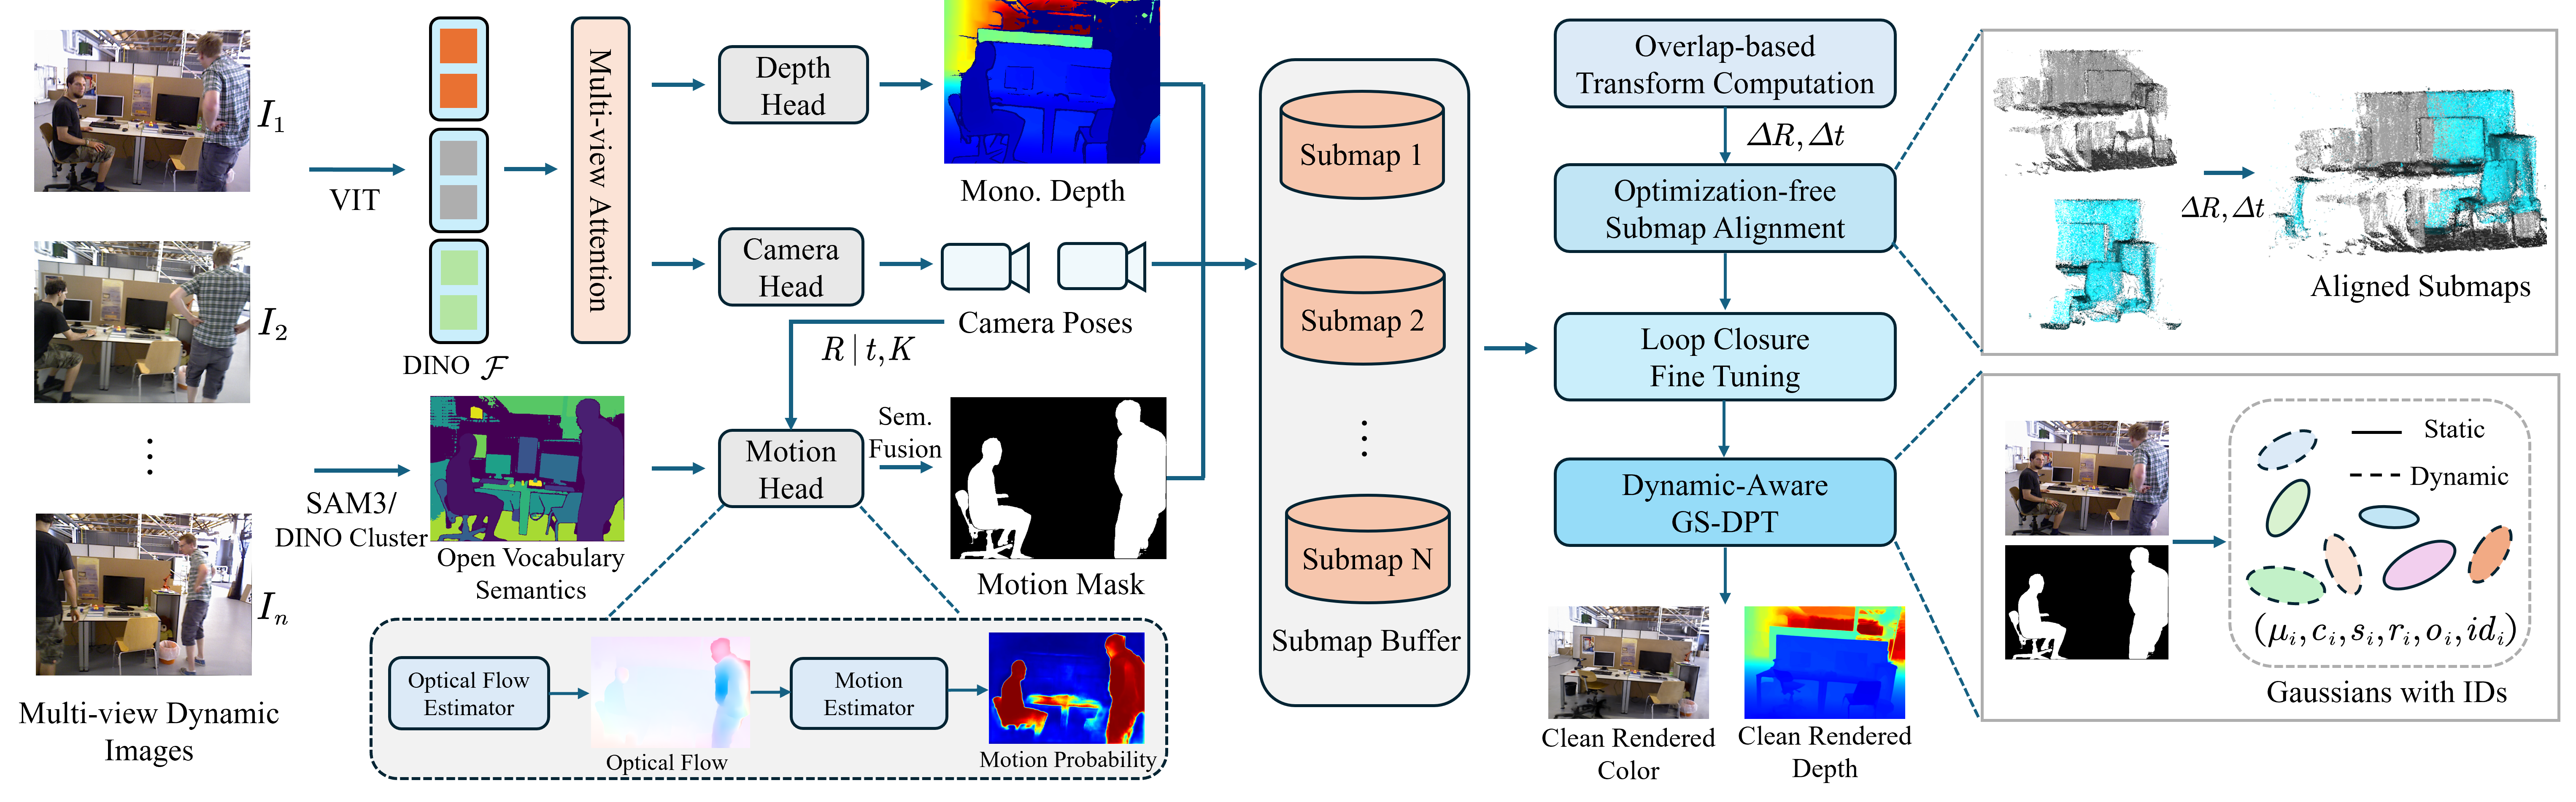
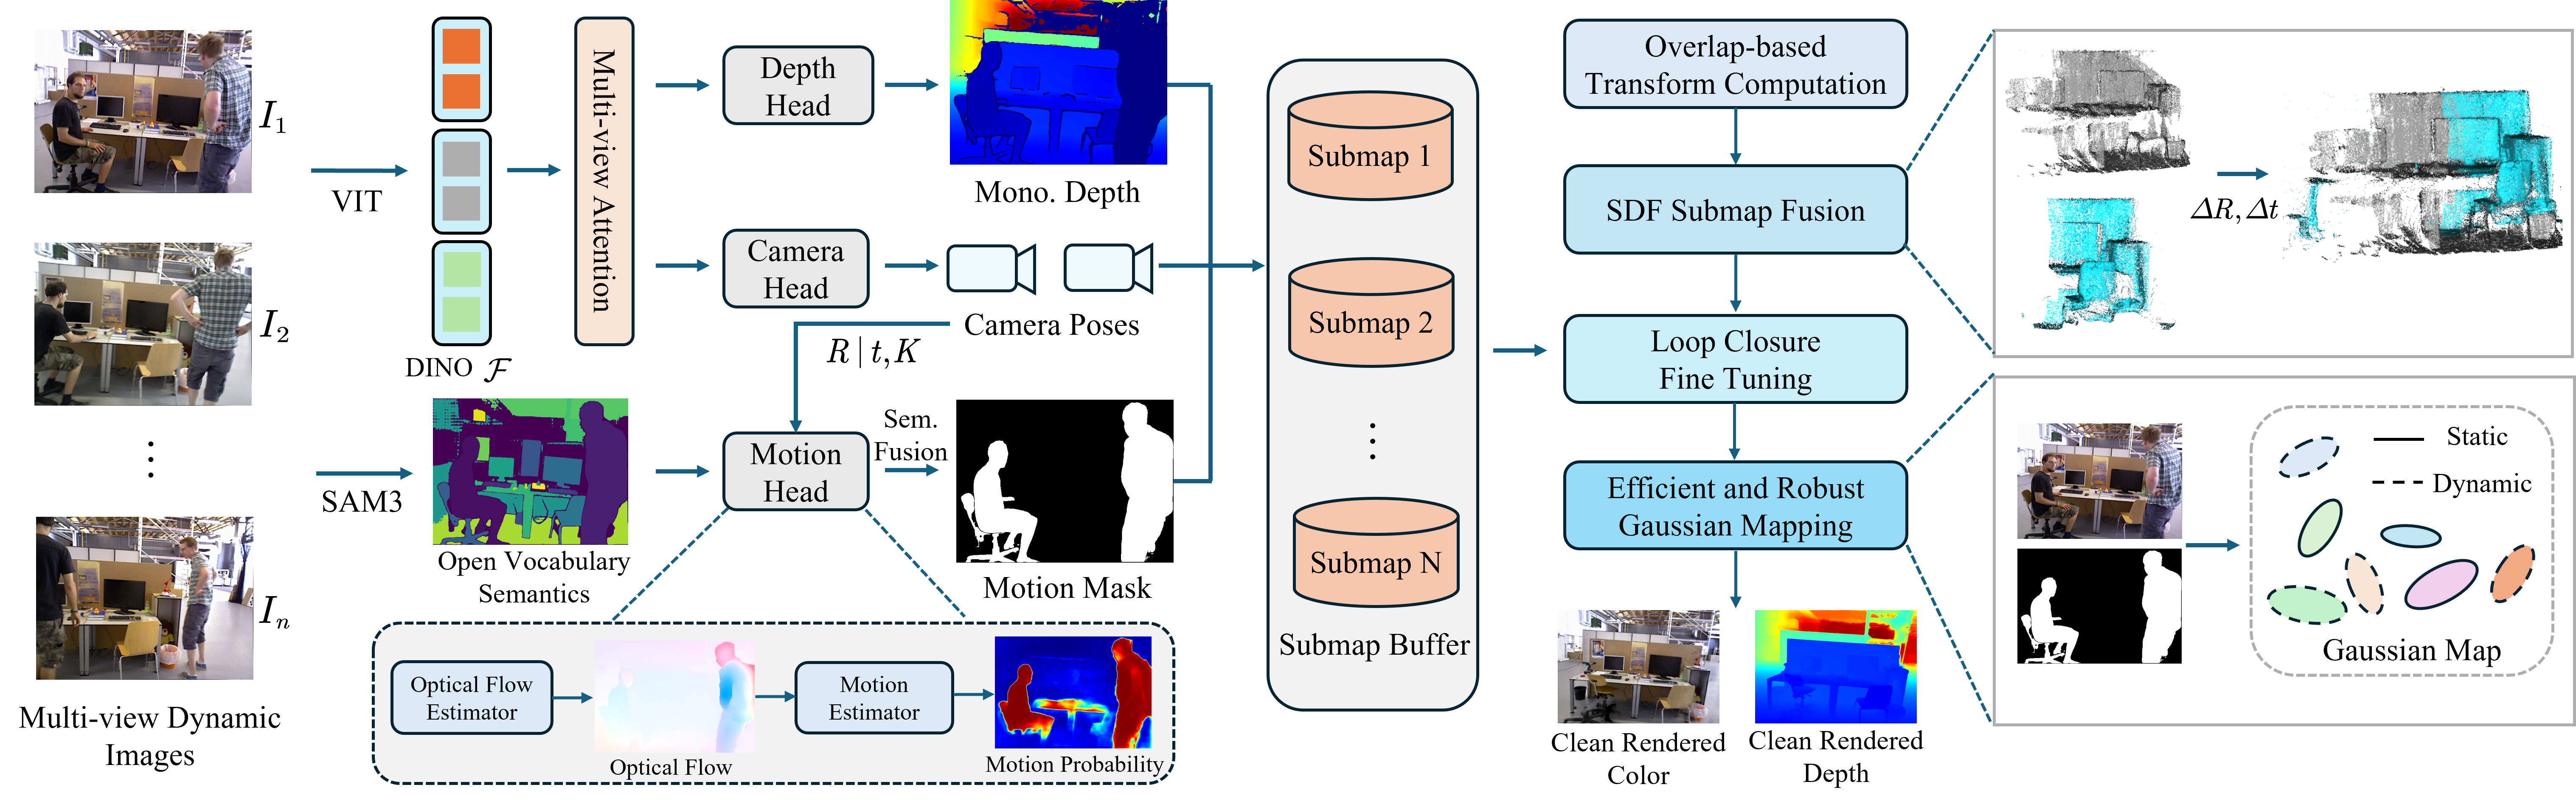
Update project

diff --git a/index.html b/index.html
@@ -4,8 +4,10 @@
 <head>
   <meta charset="utf-8">
   <meta name="description"
-        content="DyEG-SLAM: Feed-forward Gaussian SLAM in Dynamic Scenes">
-  <meta name="keywords" content="DyEG-SLAM: Feed-forward Gaussian SLAM in Dynamic Scenes">
+        content="GCD-SLAM: Globally Consistent Calibration-Free
+Dynamic Visual SLAM with 3D Foundation Model">
+  <meta name="keywords" content="GCD-SLAM: Globally Consistent Calibration-Free
+Dynamic Visual SLAM with 3D Foundation Model">
   <meta name="viewport" content="width=device-width, initial-scale=1">
   <title>DyEG-SLAM</title>
 
@@ -132,9 +134,9 @@
       <div class="columns is-centered">
         <div class="column has-text-centered">
 
-          <h1 class="title is-1 publication-title">DyEG-SLAM</h1>
+          <h1 class="title is-1 publication-title">GCD-SLAM</h1>
           <h2 class="title is-2 publication-title" style="margin-top: 0; margin-bottom: 0">
-            End-to-End Gaussian SLAM in Dynamic Scenes
+            Globally Consistent Calibration-Free Dynamic Visual SLAM with 3D Foundation Model
           </h2>
 
 <!--          <div class="column is-full_width">-->
@@ -231,6 +233,32 @@
 
 
 
+<section class="section">
+  <div class="container is-max-desktop">
+
+    <!-- Results. -->
+    <div class="columns is-centered ">
+      <div class="column is-full-width">
+        <h2 class="title is-3 has-text-centered" style="margin-top: -30px">Results</h2>
+
+        <h3 class="title is-4">Real-Time video</h3>
+
+        <div class="columns is-centered">
+          <div class="column">
+            <div class="video-container has-text-centered">
+              <video id="realtime" controls preload="auto" height="100%">
+                <source src="static/videos/realtime.mp4" type="video/mp4">
+                Your browser does not support the video tag.
+              </video>
+              <p class="caption">Ours</p>
+              <!-- <p class="caption">First video caption</p> -->
+            </div>
+          </div>
+
+          </div>
+        </div>
+
+
 
 <section class="section">
   <div class="container is-max-desktop">
@@ -243,7 +271,12 @@
         <img src="static/videos/pipeline.png" class="center">
         <div class="content has-text-justified">
           <p style="margin-top: 30px">
-            The framework of DyEG-SLAM. Given a sequence of RGB images, DyEG-SLAM jointly estimates scene depth and camera motion using multi-view attention-based depth and camera heads. Based on the inferred camera poses and depth estimates, a dedicated motion head extracts motion cues and further leverages open-vocabulary semantic information to propagate these cues into semantically refined motion masks. Incoming frames are incrementally grouped into local submaps for inference and maintained in a submap buffer, where overlap-based transformation estimation and loop closure are applied to enforce global consistency. Finally, a dynamic-aware GS-DPT module takes RGB images and semantic motion masks as input to infer Gaussian primitives with dynamic regions suppressed, which are subsequently rendered using Gaussian rasterization.
+             Framework of GCD-SLAM. GCD-SLAM extends Depth Anything V3 with motion cues to jointly infer camera
+poses, scene depth, and motion masks from a sequence of RGB images. Incoming frames are incrementally grouped into local
+submaps for independent inference and maintained in a submap buffer, where overlap-based transformation estimation and
+loop closure are performed to enforce global consistency. Finally, an efficient Gaussian mapping module takes RGB images
+and motion masks to generate Gaussian primitives with dynamic regions suppressed, which are then rendered via Gaussian
+rasterization.
           </p>
         </div>
 
@@ -426,37 +459,37 @@
             </div>
 
 
-        <div style="height: 50px;"></div> 
-        <h3 class="title is-4">Bonn RGB-D Dynamic Dataset</h3>
+<!--        <div style="height: 50px;"></div> -->
+<!--        <h3 class="title is-4">Bonn RGB-D Dynamic Dataset</h3>-->
 
-        <!-- <br> -->
-        <h3 class="title is-5">movebox</h3>
-        <p style="margin-top: -60px">
-          <div class="container is-max-desktop">
-            <div class="hero-body">
-              <div class="columns is-centered has-text-centered">
-                <div class="column is-full-width">
-                  <video class="video" width="50%" id="move" loop playsinline autoplay muted src="static/videos/bonn_movebox.mp4" onplay="resizeAndPlay(this)" style="height: 0px;"></video>
-                  <canvas height=0 class="videoMerge" id="moveMerge"></canvas>
-                </div>
-              </div>
-            </div>
-          </div>
-        </p>
+<!--        &lt;!&ndash; <br> &ndash;&gt;-->
+<!--        <h3 class="title is-5">movebox</h3>-->
+<!--        <p style="margin-top: -60px">-->
+<!--          <div class="container is-max-desktop">-->
+<!--            <div class="hero-body">-->
+<!--              <div class="columns is-centered has-text-centered">-->
+<!--                <div class="column is-full-width">-->
+<!--                  <video class="video" width="50%" id="move" loop playsinline autoplay muted src="static/videos/bonn_movebox.mp4" onplay="resizeAndPlay(this)" style="height: 0px;"></video>-->
+<!--                  <canvas height=0 class="videoMerge" id="moveMerge"></canvas>-->
+<!--                </div>-->
+<!--              </div>-->
+<!--            </div>-->
+<!--          </div>-->
+<!--        </p>-->
 
-        <h3 class="title is-5">person</h3>
-        <p style="margin-top: -60px">
-          <div class="container is-max-desktop">
-            <div class="hero-body">
-              <div class="columns is-centered has-text-centered">
-                <div class="column is-full-width">
-                  <video class="video" width="50%" id="person1" loop playsinline autoplay muted src="static/videos/bonn_person.mp4" onplay="resizeAndPlay(this)" style="height: 0px;"></video>
-                  <canvas height=0 class="videoMerge" id="person1Merge"></canvas>
-                </div>
-              </div>
-            </div>
-          </div>
-        </p>
+<!--        <h3 class="title is-5">person</h3>-->
+<!--        <p style="margin-top: -60px">-->
+<!--          <div class="container is-max-desktop">-->
+<!--            <div class="hero-body">-->
+<!--              <div class="columns is-centered has-text-centered">-->
+<!--                <div class="column is-full-width">-->
+<!--                  <video class="video" width="50%" id="person1" loop playsinline autoplay muted src="static/videos/bonn_person.mp4" onplay="resizeAndPlay(this)" style="height: 0px;"></video>-->
+<!--                  <canvas height=0 class="videoMerge" id="person1Merge"></canvas>-->
+<!--                </div>-->
+<!--              </div>-->
+<!--            </div>-->
+<!--          </div>-->
+<!--        </p>-->
 
         <p style="margin-top: -60px">
           <div style="height: 50px;"></div> 
@@ -475,20 +508,6 @@
               </div> 
             </div> 
           </div> 
-        </p>
-
-        <h3 class="title is-5">rgbd_dataset_freiburg1_desk</h3>
-        <p style="margin-top: -60px">
-          <div class="container is-max-desktop">
-            <div class="hero-body">
-              <div class="columns is-centered has-text-centered">
-                <div class="column is-full-width">
-                  <video class="video" width="50%" id="xyalias8" loop playsinline autoplay muted src="static/videos/TUM_desk.mp4" onplay="resizeAndPlay(this)" style="height: 0px;"></video>
-                  <canvas height=0 class="videoMerge" id="xyalias8Merge"></canvas>
-                </div>
-              </div>
-            </div>
-          </div>
         </p>
 
       </div>